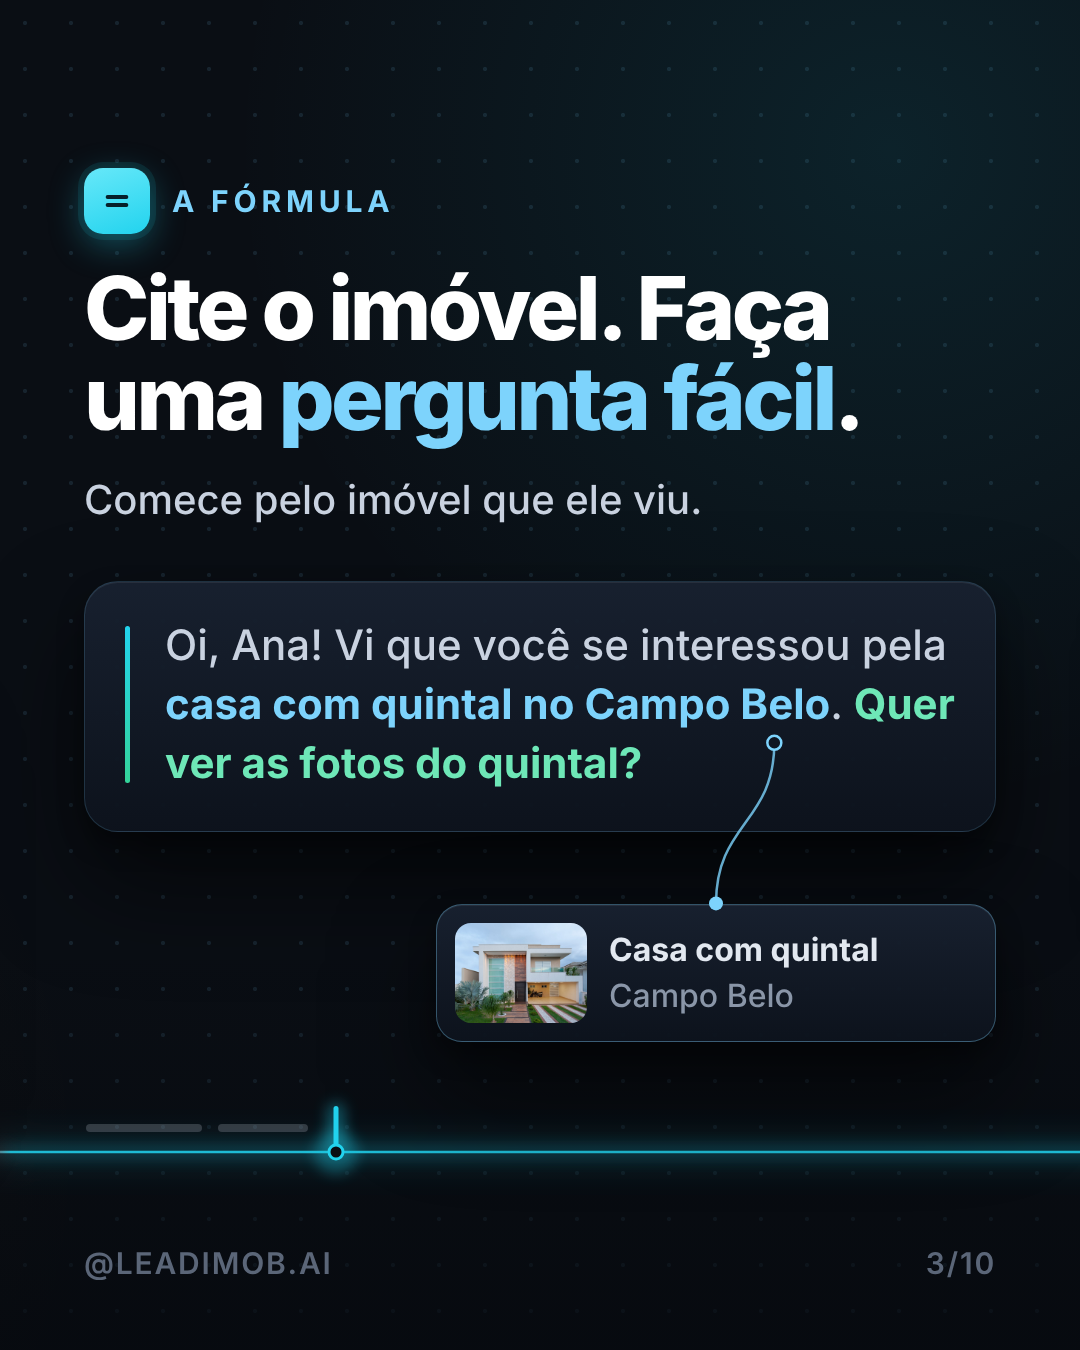
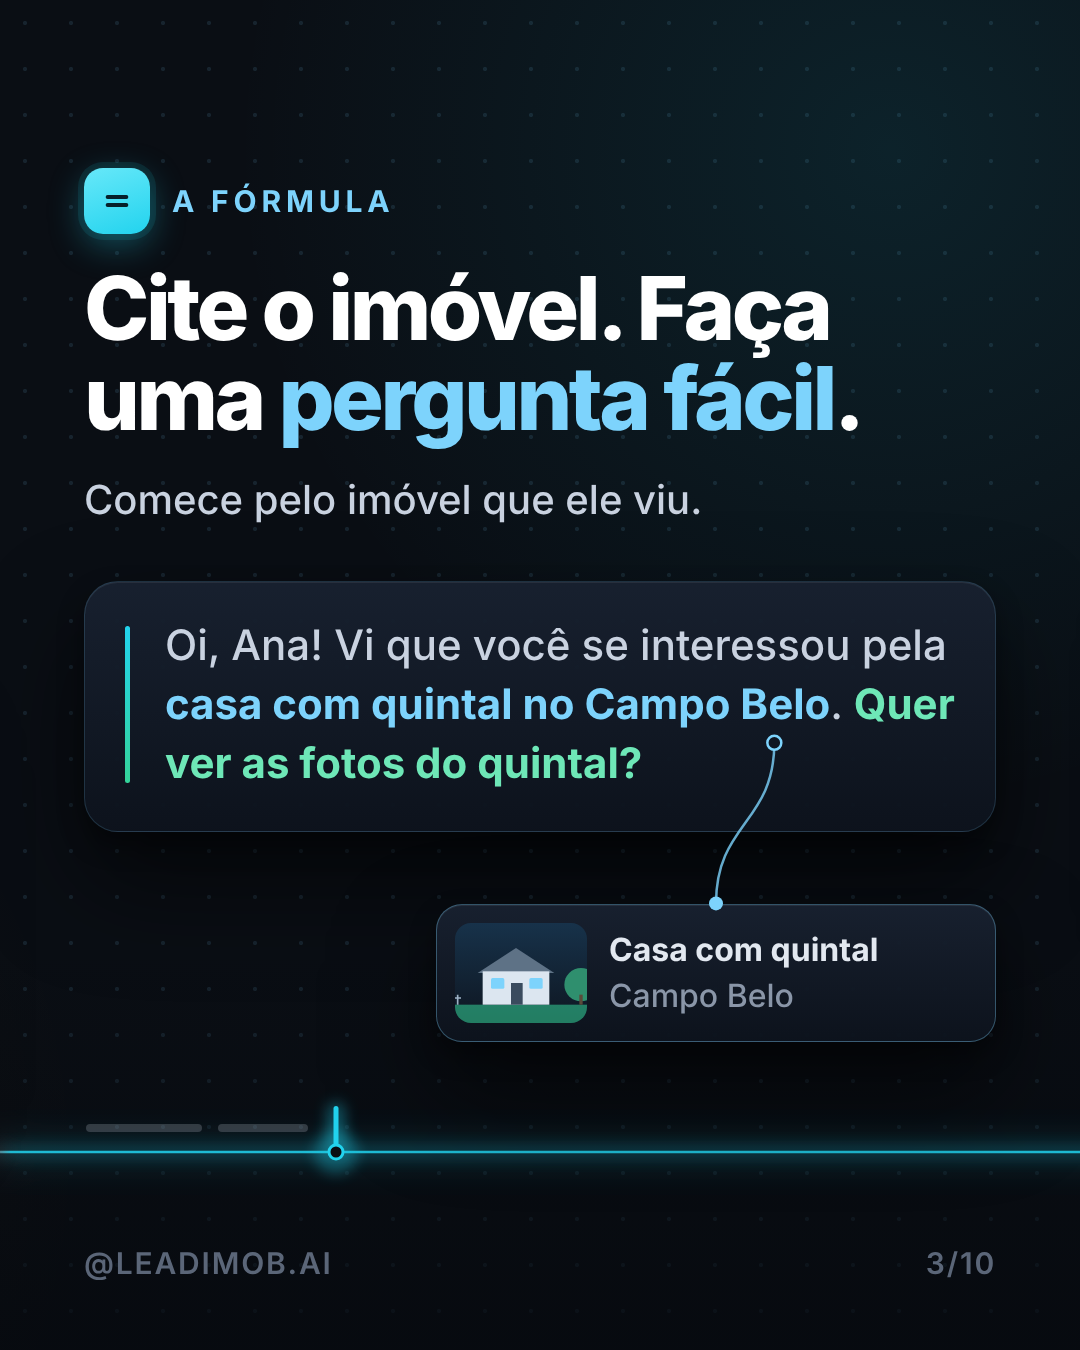
14/10: carrossel ajustes do corte final (miniaturas em código, lida 30px)
Claude-Session: https://claude.ai/code/session_01LvJANurrpUBbb4ttcDaKAe

Changed region(s): [[0.3972, 0.6844, 0.55, 0.7778]]

diff --git a/instagram/2026-10-14/src/c1-index.html b/instagram/2026-10-14/src/c1-index.html
@@ -98,7 +98,7 @@ body{background:#0A0E14;width:10800px;height:1350px;overflow:hidden;font-family:
  <div class="p" style="margin-top:44px;color:#E2E8F0">Modelos de primeira mensagem para copiar, um para cada tipo de lead.</div>
  <!-- imagem do problema: a pergunta aberta, lida e sem resposta, parada na linha -->
  <div class="foot0" style="position:absolute;right:84px;top:962px;display:flex;flex-direction:column;align-items:flex-end">
-  <div class="bub bneu" style="font-size:32px;padding:16px 24px 12px;background:#222B35;color:#AEB8C6;box-shadow:0 18px 36px rgba(0,0,0,.45)">Como posso ajudar?<div class="bt" style="margin-top:6px">lida <svg class="tk" viewBox="0 0 34 22"><path d="M2 12l6 6L20 4M14 18l14-14" stroke="#53BDEB" stroke-width="3" fill="none" stroke-linecap="round" stroke-linejoin="round"/></svg></div></div>
+  <div class="bub bneu" style="font-size:32px;padding:16px 24px 12px;background:#222B35;color:#AEB8C6;box-shadow:0 18px 36px rgba(0,0,0,.45)">Como posso ajudar?<div class="bt" style="margin-top:6px;font-size:30px">lida <svg class="tk" viewBox="0 0 34 22"><path d="M2 12l6 6L20 4M14 18l14-14" stroke="#53BDEB" stroke-width="3" fill="none" stroke-linecap="round" stroke-linejoin="round"/></svg></div></div>
  </div>
  <div class="foot"><span>@LEADIMOB.AI</span><span style="color:#7DD3FC">ARRASTE →</span></div>
 </div>
@@ -129,7 +129,9 @@ body{background:#0A0E14;width:10800px;height:1350px;overflow:hidden;font-family:
   <svg id="f3w" class="abs" style="left:0;top:0;overflow:visible;z-index:3;pointer-events:none" width="10" height="10"></svg>
   <div class="mod" style="z-index:2"><div class="mt" style="font-size:42px">Oi, Ana! Vi que você se interessou pela <span class="ci" id="f3c">casa com quintal no Campo Belo</span>. <span class="qu">Quer ver as fotos do quintal?</span></div></div>
   <div id="f3k" class="card" style="z-index:2;margin:72px 0 0 auto;width:560px;padding:18px;display:flex;align-items:center;gap:22px;border-color:rgba(125,211,252,.34);border-radius:26px">
-   <div style="width:132px;height:100px;border-radius:16px;background:url(property.jpg) center 45%/cover;flex:none"></div>
+   <div style="width:132px;height:100px;border-radius:16px;overflow:hidden;flex:none"><svg width="100%" height="100%" viewBox="0 0 220 120" preserveAspectRatio="xMidYMax slice" style="display:block"><defs><linearGradient id="skcasa" x1="0" y1="0" x2="0" y2="1"><stop offset="0" stop-color="#17324A"/><stop offset="1" stop-color="#0E1621"/></linearGradient></defs><rect width="220" height="120" fill="url(#skcasa)"/><rect x="0" y="98" width="220" height="22" fill="rgba(52,211,153,.55)"/><path d="M14 98v-12M24 98v-12M34 98v-12M10 90h28" stroke="#9FB3C6" stroke-width="2"/>
+<circle cx="182" cy="74" r="20" fill="#2F8F6E"/><rect x="180" y="86" width="4" height="12" fill="#5B4A3A"/>
+<path d="M58 60 L104 30 L150 60 Z" fill="#5E7286"/><rect x="64" y="58" width="80" height="40" fill="#DCE6F0"/><rect x="98" y="72" width="14" height="26" fill="#3A4B5E"/><rect x="74" y="66" width="16" height="13" rx="2" fill="#7DD3FC"/><rect x="120" y="66" width="16" height="13" rx="2" fill="#7DD3FC"/></svg></div>
    <div style="font:700 32px/1.25 IN;color:#E2E8F0">Casa com quintal<div style="font-weight:500;color:#8A96A8;margin-top:6px">Campo Belo</div></div>
   </div>
  </div>
@@ -155,15 +157,15 @@ body{background:#0A0E14;width:10800px;height:1350px;overflow:hidden;font-family:
   <div class="lab2" style="margin-bottom:22px"><svg width="34" height="34" viewBox="0 0 24 24" fill="none" stroke="#8A96A8" stroke-width="2.2" stroke-linejoin="round"><rect x="3" y="4" width="18" height="16" rx="2.5"/><path d="M3 9h18M7 13h5M7 16h8" stroke-linecap="round"/></svg>Pediu contato no portal</div>
   <div style="display:flex;gap:20px;align-items:stretch">
    <div style="flex:1;border-radius:22px;padding:12px;background:rgba(255,255,255,.03);border:1.5px solid rgba(255,255,255,.08);opacity:.38;filter:grayscale(1)">
-    <div style="height:124px;border-radius:14px;background:url(property.jpg) 8% 70%/230%"></div>
+    <div style="height:124px;border-radius:14px;overflow:hidden"><svg width="100%" height="100%" viewBox="0 0 220 120" preserveAspectRatio="xMidYMax slice" style="display:block"><defs><linearGradient id="sksobrado" x1="0" y1="0" x2="0" y2="1"><stop offset="0" stop-color="#1A2430"/><stop offset="1" stop-color="#0E1621"/></linearGradient></defs><rect width="220" height="120" fill="url(#sksobrado)"/><rect x="0" y="100" width="220" height="20" fill="rgba(52,211,153,.55)"/><rect x="62" y="34" width="96" height="66" fill="#DCE6F0"/><rect x="56" y="28" width="108" height="8" fill="#5E7286"/><rect x="74" y="46" width="22" height="16" rx="2" fill="#7DD3FC"/><rect x="124" y="46" width="22" height="16" rx="2" fill="#7DD3FC"/><rect x="100" y="74" width="20" height="26" fill="#3A4B5E"/></svg></div>
     <div style="height:12px;width:80%;border-radius:6px;background:rgba(201,210,224,.35);margin:24px 6px 0"></div><div style="height:12px;width:55%;border-radius:6px;background:rgba(201,210,224,.25);margin:14px 6px 6px"></div>
    </div>
    <div style="flex:1;border-radius:22px;padding:12px;background:rgba(34,211,238,.08);border:2px solid rgba(34,211,238,.75);box-shadow:0 0 0 6px rgba(34,211,238,.08),0 24px 50px rgba(0,0,0,.5)">
-    <div style="height:124px;border-radius:14px;background:url(property.jpg) center 45%/cover"></div>
+    <div style="height:124px;border-radius:14px;overflow:hidden"><svg width="100%" height="100%" viewBox="0 0 220 120" preserveAspectRatio="xMidYMax slice" style="display:block"><defs><linearGradient id="skpredio" x1="0" y1="0" x2="0" y2="1"><stop offset="0" stop-color="#17324A"/><stop offset="1" stop-color="#0E1621"/></linearGradient></defs><rect width="220" height="120" fill="url(#skpredio)"/><rect x="0" y="104" width="220" height="16" fill="#22303F"/><rect x="40" y="62" width="36" height="42" fill="#3E5266"/><rect x="146" y="52" width="38" height="52" fill="#3E5266"/><rect x="80" y="16" width="62" height="88" fill="#DCE6F0"/><rect x="80" y="16" width="62" height="6" fill="#9FB3C6"/><rect x="90" y="28" width="10" height="9" rx="1.5" fill="#7DD3FC"/><rect x="106" y="28" width="10" height="9" rx="1.5" fill="#7DD3FC"/><rect x="122" y="28" width="10" height="9" rx="1.5" fill="#4A6076"/><rect x="90" y="43" width="10" height="9" rx="1.5" fill="#7DD3FC"/><rect x="106" y="43" width="10" height="9" rx="1.5" fill="#7DD3FC"/><rect x="122" y="43" width="10" height="9" rx="1.5" fill="#4A6076"/><rect x="90" y="58" width="10" height="9" rx="1.5" fill="#7DD3FC"/><rect x="106" y="58" width="10" height="9" rx="1.5" fill="#7DD3FC"/><rect x="122" y="58" width="10" height="9" rx="1.5" fill="#4A6076"/><rect x="90" y="73" width="10" height="9" rx="1.5" fill="#7DD3FC"/><rect x="106" y="73" width="10" height="9" rx="1.5" fill="#7DD3FC"/><rect x="122" y="73" width="10" height="9" rx="1.5" fill="#4A6076"/><rect x="90" y="88" width="10" height="9" rx="1.5" fill="#7DD3FC"/><rect x="106" y="88" width="10" height="9" rx="1.5" fill="#7DD3FC"/><rect x="122" y="88" width="10" height="9" rx="1.5" fill="#4A6076"/></svg></div>
     <div style="font:700 30px/1 IN;color:#A5F3FC;margin:18px 6px 8px;white-space:nowrap">Jardim América</div>
    </div>
    <div style="flex:1;border-radius:22px;padding:12px;background:rgba(255,255,255,.03);border:1.5px solid rgba(255,255,255,.08);opacity:.38;filter:grayscale(1)">
-    <div style="height:124px;border-radius:14px;background:url(property.jpg) 95% 35%/210%"></div>
+    <div style="height:124px;border-radius:14px;overflow:hidden"><svg width="100%" height="100%" viewBox="0 0 220 120" preserveAspectRatio="xMidYMax slice" style="display:block"><defs><linearGradient id="skbaixo" x1="0" y1="0" x2="0" y2="1"><stop offset="0" stop-color="#1A2430"/><stop offset="1" stop-color="#0E1621"/></linearGradient></defs><rect width="220" height="120" fill="url(#skbaixo)"/><rect x="0" y="104" width="220" height="16" fill="#22303F"/><rect x="54" y="40" width="112" height="64" fill="#DCE6F0"/><rect x="66" y="52" width="14" height="10" rx="1.5" fill="#7DD3FC"/><rect x="90" y="52" width="14" height="10" rx="1.5" fill="#7DD3FC"/><rect x="114" y="52" width="14" height="10" rx="1.5" fill="#7DD3FC"/><rect x="138" y="52" width="14" height="10" rx="1.5" fill="#7DD3FC"/><rect x="66" y="70" width="14" height="10" rx="1.5" fill="#7DD3FC"/><rect x="90" y="70" width="14" height="10" rx="1.5" fill="#7DD3FC"/><rect x="114" y="70" width="14" height="10" rx="1.5" fill="#7DD3FC"/><rect x="138" y="70" width="14" height="10" rx="1.5" fill="#7DD3FC"/><rect x="66" y="88" width="14" height="10" rx="1.5" fill="#7DD3FC"/><rect x="90" y="88" width="14" height="10" rx="1.5" fill="#7DD3FC"/><rect x="114" y="88" width="14" height="10" rx="1.5" fill="#7DD3FC"/><rect x="138" y="88" width="14" height="10" rx="1.5" fill="#7DD3FC"/></svg></div>
     <div style="height:12px;width:80%;border-radius:6px;background:rgba(201,210,224,.35);margin:24px 6px 0"></div><div style="height:12px;width:55%;border-radius:6px;background:rgba(201,210,224,.25);margin:14px 6px 6px"></div>
    </div>
   </div>
